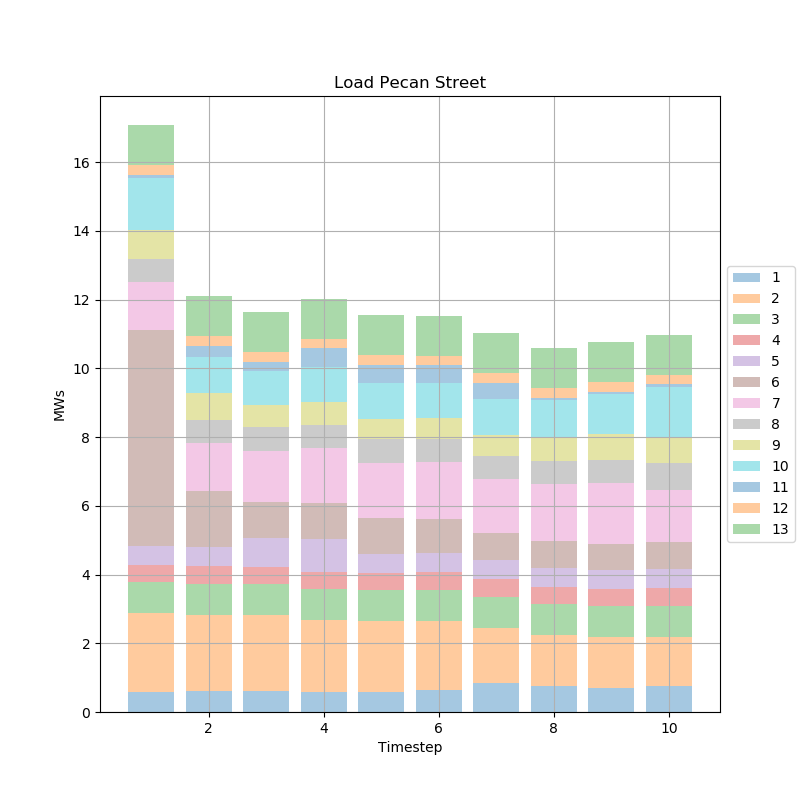
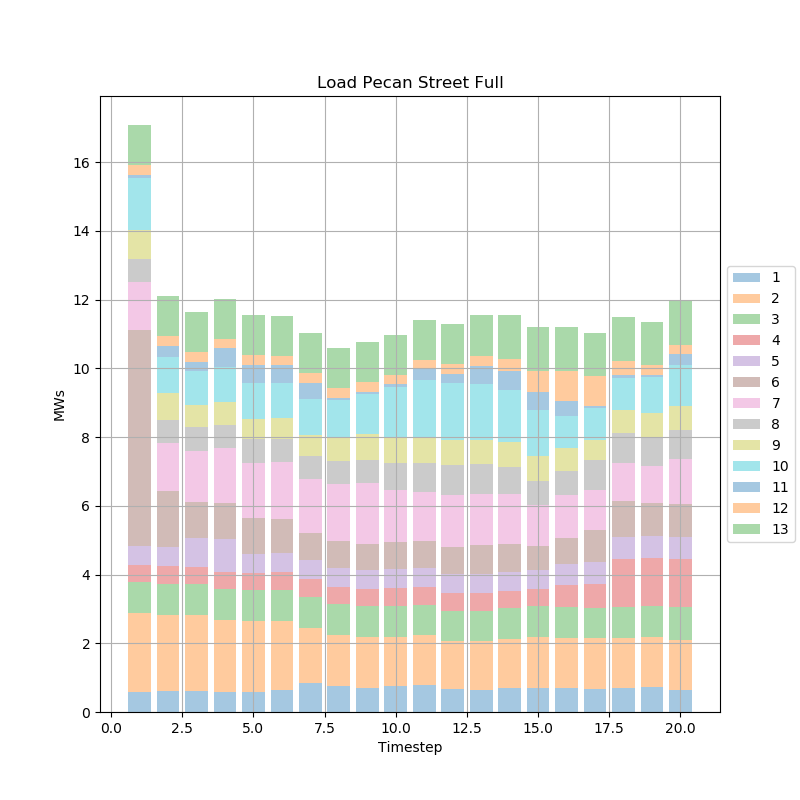
Added ability to stop flywheel, and recharge from zero speed

diff --git a/Data_Gen/importPecanStreet.m b/Data_Gen/importPecanStreet.m
@@ -14,7 +14,7 @@ folder = 'Output_Model/';
 fname = 'case_ieee123_storage_';
 
 % number of periods
-steps = 20; %determined by max of this or pecan street data
+steps = 1440; %determined by max of this or pecan street data
 
 % storage elements
 storageElements = 1;
@@ -106,7 +106,7 @@ end
 
  for i =1:periods
      modifier.period(i).gen = gen;
-     modifier.period(i).gen(:,17) = 1;
+     modifier.period(i).gen(:,17) = 10;
  end
 
  

diff --git a/Data_Gen/Output_Model/case_ieee123_storage_1.m b/Data_Gen/Output_Model/case_ieee123_storage_1.m
@@ -31,7 +31,7 @@ mpc.bus = [
 %% generator data
 %	bus	Pg	Qg	Qmax	Qmin	Vg	mBase	status	Pmax	Pmin	Pc1	Pc2	Qc1min	Qc1max	Qc2min	Qc2max	ramp_agc	ramp_10	ramp_30	ramp_q	apf
 mpc.gen = [
-	1	17.068	0	200	-200	1	1	1	200	-200	0	0	0	0	0	0	1	0	0	0	0;
+	1	17.068	0	200	-200	1	1	1	200	-200	0	0	0	0	0	0	10	0	0	0	0;
 ];
 
 %% branch data

diff --git a/Data_Gen/Output_Model/case_ieee123_storage_10.m b/Data_Gen/Output_Model/case_ieee123_storage_10.m
@@ -31,7 +31,7 @@ mpc.bus = [
 %% generator data
 %	bus	Pg	Qg	Qmax	Qmin	Vg	mBase	status	Pmax	Pmin	Pc1	Pc2	Qc1min	Qc1max	Qc2min	Qc2max	ramp_agc	ramp_10	ramp_30	ramp_q	apf
 mpc.gen = [
-	1	17.068	0	200	-200	1	1	1	200	-200	0	0	0	0	0	0	1	0	0	0	0;
+	1	17.068	0	200	-200	1	1	1	200	-200	0	0	0	0	0	0	10	0	0	0	0;
 ];
 
 %% branch data

diff --git a/Data_Gen/Output_Model/case_ieee123_storage_11.m b/Data_Gen/Output_Model/case_ieee123_storage_11.m
@@ -31,7 +31,7 @@ mpc.bus = [
 %% generator data
 %	bus	Pg	Qg	Qmax	Qmin	Vg	mBase	status	Pmax	Pmin	Pc1	Pc2	Qc1min	Qc1max	Qc2min	Qc2max	ramp_agc	ramp_10	ramp_30	ramp_q	apf
 mpc.gen = [
-	1	17.068	0	200	-200	1	1	1	200	-200	0	0	0	0	0	0	1	0	0	0	0;
+	1	17.068	0	200	-200	1	1	1	200	-200	0	0	0	0	0	0	10	0	0	0	0;
 ];
 
 %% branch data

diff --git a/Data_Gen/Output_Model/case_ieee123_storage_12.m b/Data_Gen/Output_Model/case_ieee123_storage_12.m
@@ -31,7 +31,7 @@ mpc.bus = [
 %% generator data
 %	bus	Pg	Qg	Qmax	Qmin	Vg	mBase	status	Pmax	Pmin	Pc1	Pc2	Qc1min	Qc1max	Qc2min	Qc2max	ramp_agc	ramp_10	ramp_30	ramp_q	apf
 mpc.gen = [
-	1	17.068	0	200	-200	1	1	1	200	-200	0	0	0	0	0	0	1	0	0	0	0;
+	1	17.068	0	200	-200	1	1	1	200	-200	0	0	0	0	0	0	10	0	0	0	0;
 ];
 
 %% branch data

diff --git a/Data_Gen/Output_Model/case_ieee123_storage_13.m b/Data_Gen/Output_Model/case_ieee123_storage_13.m
@@ -31,7 +31,7 @@ mpc.bus = [
 %% generator data
 %	bus	Pg	Qg	Qmax	Qmin	Vg	mBase	status	Pmax	Pmin	Pc1	Pc2	Qc1min	Qc1max	Qc2min	Qc2max	ramp_agc	ramp_10	ramp_30	ramp_q	apf
 mpc.gen = [
-	1	17.068	0	200	-200	1	1	1	200	-200	0	0	0	0	0	0	1	0	0	0	0;
+	1	17.068	0	200	-200	1	1	1	200	-200	0	0	0	0	0	0	10	0	0	0	0;
 ];
 
 %% branch data

diff --git a/Data_Gen/Output_Model/case_ieee123_storage_14.m b/Data_Gen/Output_Model/case_ieee123_storage_14.m
@@ -31,7 +31,7 @@ mpc.bus = [
 %% generator data
 %	bus	Pg	Qg	Qmax	Qmin	Vg	mBase	status	Pmax	Pmin	Pc1	Pc2	Qc1min	Qc1max	Qc2min	Qc2max	ramp_agc	ramp_10	ramp_30	ramp_q	apf
 mpc.gen = [
-	1	17.068	0	200	-200	1	1	1	200	-200	0	0	0	0	0	0	1	0	0	0	0;
+	1	17.068	0	200	-200	1	1	1	200	-200	0	0	0	0	0	0	10	0	0	0	0;
 ];
 
 %% branch data

diff --git a/Data_Gen/Output_Model/case_ieee123_storage_15.m b/Data_Gen/Output_Model/case_ieee123_storage_15.m
@@ -31,7 +31,7 @@ mpc.bus = [
 %% generator data
 %	bus	Pg	Qg	Qmax	Qmin	Vg	mBase	status	Pmax	Pmin	Pc1	Pc2	Qc1min	Qc1max	Qc2min	Qc2max	ramp_agc	ramp_10	ramp_30	ramp_q	apf
 mpc.gen = [
-	1	17.068	0	200	-200	1	1	1	200	-200	0	0	0	0	0	0	1	0	0	0	0;
+	1	17.068	0	200	-200	1	1	1	200	-200	0	0	0	0	0	0	10	0	0	0	0;
 ];
 
 %% branch data

diff --git a/Data_Gen/Output_Model/case_ieee123_storage_16.m b/Data_Gen/Output_Model/case_ieee123_storage_16.m
@@ -31,7 +31,7 @@ mpc.bus = [
 %% generator data
 %	bus	Pg	Qg	Qmax	Qmin	Vg	mBase	status	Pmax	Pmin	Pc1	Pc2	Qc1min	Qc1max	Qc2min	Qc2max	ramp_agc	ramp_10	ramp_30	ramp_q	apf
 mpc.gen = [
-	1	17.068	0	200	-200	1	1	1	200	-200	0	0	0	0	0	0	1	0	0	0	0;
+	1	17.068	0	200	-200	1	1	1	200	-200	0	0	0	0	0	0	10	0	0	0	0;
 ];
 
 %% branch data

diff --git a/Data_Gen/Output_Model/case_ieee123_storage_17.m b/Data_Gen/Output_Model/case_ieee123_storage_17.m
@@ -31,7 +31,7 @@ mpc.bus = [
 %% generator data
 %	bus	Pg	Qg	Qmax	Qmin	Vg	mBase	status	Pmax	Pmin	Pc1	Pc2	Qc1min	Qc1max	Qc2min	Qc2max	ramp_agc	ramp_10	ramp_30	ramp_q	apf
 mpc.gen = [
-	1	17.068	0	200	-200	1	1	1	200	-200	0	0	0	0	0	0	1	0	0	0	0;
+	1	17.068	0	200	-200	1	1	1	200	-200	0	0	0	0	0	0	10	0	0	0	0;
 ];
 
 %% branch data

diff --git a/Data_Gen/Output_Model/case_ieee123_storage_18.m b/Data_Gen/Output_Model/case_ieee123_storage_18.m
@@ -31,7 +31,7 @@ mpc.bus = [
 %% generator data
 %	bus	Pg	Qg	Qmax	Qmin	Vg	mBase	status	Pmax	Pmin	Pc1	Pc2	Qc1min	Qc1max	Qc2min	Qc2max	ramp_agc	ramp_10	ramp_30	ramp_q	apf
 mpc.gen = [
-	1	17.068	0	200	-200	1	1	1	200	-200	0	0	0	0	0	0	1	0	0	0	0;
+	1	17.068	0	200	-200	1	1	1	200	-200	0	0	0	0	0	0	10	0	0	0	0;
 ];
 
 %% branch data

diff --git a/Data_Gen/Output_Model/case_ieee123_storage_19.m b/Data_Gen/Output_Model/case_ieee123_storage_19.m
@@ -31,7 +31,7 @@ mpc.bus = [
 %% generator data
 %	bus	Pg	Qg	Qmax	Qmin	Vg	mBase	status	Pmax	Pmin	Pc1	Pc2	Qc1min	Qc1max	Qc2min	Qc2max	ramp_agc	ramp_10	ramp_30	ramp_q	apf
 mpc.gen = [
-	1	17.068	0	200	-200	1	1	1	200	-200	0	0	0	0	0	0	1	0	0	0	0;
+	1	17.068	0	200	-200	1	1	1	200	-200	0	0	0	0	0	0	10	0	0	0	0;
 ];
 
 %% branch data
